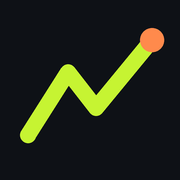
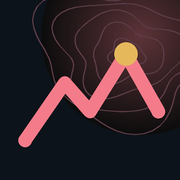
Foulée v5.2 : refonte visuelle « crépuscule alpin » (palette par module, Barlow, en-tête topographique, onglets flottants, nouvelle icône)
Claude-Session: https://claude.ai/code/session_01FcJh9x7dRj6SEJJ1oRs4bJ

diff --git a/foulee/index.html b/foulee/index.html
@@ -7,17 +7,19 @@
 <meta name="mobile-web-app-capable" content="yes">
 <meta name="apple-mobile-web-app-status-bar-style" content="black-translucent">
 <meta name="apple-mobile-web-app-title" content="Foulée">
-<meta name="theme-color" content="#0e1116">
+<meta name="theme-color" content="#0D131A">
 <title>Foulée</title>
 <link rel="apple-touch-icon" href="icon-180.png">
 <link rel="icon" type="image/png" href="icon-192.png">
 <link rel="manifest" href="manifest.webmanifest">
+<link rel="preconnect" href="https://fonts.googleapis.com"><link rel="preconnect" href="https://fonts.gstatic.com" crossorigin>
+<link href="https://fonts.googleapis.com/css2?family=Barlow+Condensed:wght@500;600;700;800&family=Barlow:wght@400;500;600;700&display=swap" rel="stylesheet">
 <style>
-:root{--bg:#0e1116;--card:#171b22;--card2:#1f252e;--line:#2a313c;--tx:#e9edf2;--mut:#8b95a3;--acc:#c6f432;--acc2:#ff8a4c;--blue:#4fb3ff;--red:#ff5d6c;--ok:#4ade80;--r:16px}
+:root{--bg:#0D131A;--card:#151D27;--card2:#1C2633;--line:#263243;--tx:#EDF2F6;--mut:#8C99A9;--acc:#F47C8A;--acc2:#E5B85C;--blue:#7CCBEA;--red:#ff5d6c;--ok:#6FD3A5;--r:16px}
 *{box-sizing:border-box;-webkit-tap-highlight-color:transparent}
 html,body{margin:0;background:var(--bg);color:var(--tx);font:15px/1.45 -apple-system,BlinkMacSystemFont,"SF Pro Text",Segoe UI,Roboto,sans-serif}
 body{padding-bottom:calc(76px + env(safe-area-inset-bottom))}
-header{flex-wrap:wrap;position:sticky;top:0;z-index:10;background:rgba(14,17,22,.92);backdrop-filter:blur(12px);-webkit-backdrop-filter:blur(12px);padding:calc(10px + env(safe-area-inset-top)) 16px 10px;display:flex;align-items:center;gap:10px;border-bottom:1px solid var(--line)}
+header{flex-wrap:wrap;position:sticky;top:0;z-index:10;background:rgba(13,19,26,.78);backdrop-filter:blur(12px);-webkit-backdrop-filter:blur(12px);padding:calc(10px + env(safe-area-inset-top)) 16px 10px;display:flex;align-items:center;gap:10px;border-bottom:1px solid var(--line)}
 header h1{margin:0;font-size:20px;letter-spacing:.06em;font-weight:800}
 header h1 span{color:var(--acc)}
 header .sub{color:var(--mut);font-size:12px;margin-left:2px}
@@ -71,12 +73,12 @@ ol.ex{padding-left:20px;margin:8px 0}ol.ex li{margin-bottom:8px}ol.ex small{colo
 .run .rm{flex:1;min-width:0}.run .rm b{display:block;white-space:nowrap;overflow:hidden;text-overflow:ellipsis}
 .run .rm small{color:var(--mut)}
 .tag{font-size:11px;padding:3px 8px;border-radius:20px;background:var(--line);white-space:nowrap}
-.tag.ef{background:#1d3a2a;color:var(--ok)}.tag.qual{background:#3a2a1d;color:var(--acc2)}.tag.long{background:#1d2c3a;color:var(--blue)}.tag.gris{background:#33363b;color:#c9ced6}
+.tag.ef{background:#16322A;color:var(--ok)}.tag.qual{background:#3A3020;color:var(--acc2)}.tag.long{background:#172A38;color:var(--blue)}.tag.gris{background:#33363b;color:#c9ced6}
 .wsel{display:flex;align-items:center;justify-content:space-between;margin-bottom:14px}
 .wsel b{font-size:17px}
 .pace{display:grid;grid-template-columns:1fr auto;gap:6px 12px;font-size:14px}
 .pace span:nth-child(even){font-weight:700;font-variant-numeric:tabular-nums;text-align:right}
-nav.tabs{position:fixed;bottom:0;left:0;right:0;z-index:20;background:rgba(23,27,34,.96);backdrop-filter:blur(12px);-webkit-backdrop-filter:blur(12px);border-top:1px solid var(--line);display:flex;padding:6px 4px calc(6px + env(safe-area-inset-bottom))}
+nav.tabs{position:fixed;bottom:0;left:0;right:0;z-index:20;background:rgba(21,29,39,.82);backdrop-filter:blur(12px);-webkit-backdrop-filter:blur(12px);border-top:1px solid var(--line);display:flex;padding:6px 4px calc(6px + env(safe-area-inset-bottom))}
 nav.tabs button{flex:1;background:none;border:0;color:var(--mut);font-size:11px;display:flex;flex-direction:column;align-items:center;gap:2px;padding:4px 0}
 nav.tabs button svg{width:24px;height:24px;stroke:currentColor;fill:none;stroke-width:2;stroke-linecap:round;stroke-linejoin:round}
 nav.tabs button.on{color:var(--acc)}
@@ -132,9 +134,9 @@ code{background:var(--card2);padding:2px 6px;border-radius:6px;font-size:13px;wo
 .qlab{font-size:13px;color:var(--mut);margin:14px 0 4px;font-weight:600}
 .d5{display:grid;grid-template-columns:repeat(5,1fr);gap:6px}
 .d5 button{background:var(--card2);border:1px solid var(--line);color:var(--tx);border-radius:12px;padding:10px 2px;font-size:11px;display:flex;flex-direction:column;align-items:center;gap:2px}
-.d5 button span{font-size:22px}.d5 button.on{border-color:var(--acc);background:#2a2216}
+.d5 button span{font-size:22px}.d5 button.on{border-color:var(--acc);background:#2B2418}
 .xpbar{height:10px;background:var(--card2);border-radius:6px;overflow:hidden;margin:8px 0 4px}
-.xpbar i{display:block;height:100%;background:linear-gradient(90deg,var(--acc),#ffd36b);border-radius:6px}
+.xpbar i{display:block;height:100%;background:linear-gradient(90deg,var(--acc),#F2D48A);border-radius:6px}
 .lvl-t{display:flex;align-items:baseline;gap:10px}.lvl-t b{font-size:28px}
 .badges{display:grid;grid-template-columns:repeat(3,1fr);gap:8px}
 @media(min-width:760px){.badges{grid-template-columns:repeat(6,1fr)}}
@@ -144,9 +146,9 @@ code{background:var(--card2);padding:2px 6px;border-radius:6px;font-size:13px;wo
 .tbl{width:100%;border-collapse:collapse;font-size:13px}.tbl td,.tbl th{padding:6px 4px;border-bottom:1px solid var(--line);text-align:right}.tbl th{color:var(--mut);font-weight:600}.tbl td:first-child,.tbl th:first-child{text-align:left}
 .up{color:var(--ok)}.dn{color:var(--acc2)}
 #inst{max-width:920px;margin:12px auto 0;padding:0 16px;display:none}#inst.on{display:block}
-#inst .card{border:1px solid #c6f432;background:linear-gradient(135deg,rgba(198,244,50,.12),rgba(255,138,76,.06));margin:0}
+#inst .card{border:1px solid #F47C8A;background:linear-gradient(135deg,rgba(198,244,50,.12),rgba(255,138,76,.06));margin:0}
 .istep{display:flex;gap:12px;align-items:center;margin-top:10px;font-size:15px}
-.istep b.n{flex:0 0 28px;height:28px;border-radius:50%;background:#c6f432;color:#111;display:flex;align-items:center;justify-content:center}
+.istep b.n{flex:0 0 28px;height:28px;border-radius:50%;background:#F47C8A;color:#111;display:flex;align-items:center;justify-content:center}
 .ishare{display:inline-flex;vertical-align:-4px}
 .ver{color:var(--mut);font-size:11px;text-align:center;margin-top:8px}
 #coach{position:fixed;inset:0;z-index:55;background:var(--bg);display:none;flex-direction:column}
@@ -155,7 +157,7 @@ code{background:var(--card2);padding:2px 6px;border-radius:6px;font-size:13px;wo
 .ch-h h2{margin:0;font-size:18px;flex:1}
 .ch-m{flex:1;overflow-y:auto;padding:16px;max-width:760px;width:100%;margin:0 auto;-webkit-overflow-scrolling:touch}
 .msg{max-width:88%;padding:10px 14px;border-radius:16px;margin-bottom:10px;font-size:15px;line-height:1.45;word-wrap:break-word}
-.msg.u{background:#2b3a14;margin-left:auto;border-bottom-right-radius:4px}
+.msg.u{background:#3A2129;margin-left:auto;border-bottom-right-radius:4px}
 .msg.a{background:var(--card);border:1px solid var(--line);border-bottom-left-radius:4px}
 .msg.a ul{margin:6px 0;padding-left:18px}.msg.a p{margin:0 0 6px}
 .msg.e{background:#3a1d1d;color:#ffb4b4}
@@ -165,30 +167,125 @@ code{background:var(--card2);padding:2px 6px;border-radius:6px;font-size:13px;wo
 .ch-q .chip{white-space:nowrap}
 .ch-in2{display:flex;gap:8px;padding:8px 16px calc(10px + env(safe-area-inset-bottom));border-top:1px solid var(--line);max-width:760px;width:100%;margin:0 auto}
 .ch-in2 textarea{flex:1;background:var(--card2);border:1px solid var(--line);color:var(--tx);border-radius:14px;padding:10px 12px;font:inherit;font-size:16px;resize:none;max-height:120px}
-.ch-in2 button{width:48px;border-radius:14px;border:0;background:#c6f432;color:#111;font-size:20px;font-weight:800}
+.ch-in2 button{width:48px;border-radius:14px;border:0;background:#F47C8A;color:#111;font-size:20px;font-weight:800}
 .ai{border:1px solid #6b5bd6;background:linear-gradient(135deg,rgba(107,91,214,.18),rgba(79,179,255,.08))}
 .ai h2{display:flex;align-items:center;gap:8px}
 .btn.ai-b{background:#8b7bff;color:#fff}
 .rv li{margin-bottom:4px}
 .tagm{font-size:11px;padding:2px 7px;border-radius:10px;background:var(--line);margin-right:6px;text-transform:uppercase;letter-spacing:.04em}
-body[data-mod=muscu]{--acc:#ff8a4c;--acc2:#c6f432}
-body[data-mod=cross]{--acc:#4fb3ff;--acc2:#c6f432}
+body[data-mod=muscu]{--acc:#E5B85C;--acc2:#F47C8A}
+body[data-mod=cross]{--acc:#7CCBEA;--acc2:#F47C8A}
 .modseg{flex-basis:100%;margin:10px 0 0}
 .modseg button{font-size:14px}
-body[data-mod=trail] .modseg button.on{color:#c6f432}
-body[data-mod=muscu] .modseg button.on{color:#ff8a4c}
-body[data-mod=cross] .modseg button.on{color:#4fb3ff}
+body[data-mod=trail] .modseg button.on{color:#F47C8A}
+body[data-mod=muscu] .modseg button.on{color:#E5B85C}
+body[data-mod=cross] .modseg button.on{color:#7CCBEA}
 .pill{cursor:pointer;padding:12px 16px}
 .xg{display:grid;grid-template-columns:40px 1fr 1fr;gap:6px;font-size:13px}
 .xg .hd{color:var(--mut);font-size:12px;font-weight:600}
 .xc{background:var(--card2);border-radius:10px;padding:7px 8px;min-height:36px;line-height:1.25}
-.xc.t{border-left:3px solid #c6f432}.xc.m{border-left:3px solid #ff8a4c}.xc.o{opacity:.35}
+.xc.t{border-left:3px solid #F47C8A}.xc.m{border-left:3px solid #E5B85C}.xc.o{opacity:.35}
 .xc.done{opacity:.55}
 .xd{display:flex;align-items:center;font-weight:700;color:var(--mut)}.xd.today{color:var(--tx)}
 .sched{display:grid;grid-template-columns:1fr 120px;gap:8px;align-items:center;font-size:14px}
 .sched select{padding:8px}
-.sched .t{border-left:3px solid #c6f432;padding-left:8px}.sched .m{border-left:3px solid #ff8a4c;padding-left:8px}
-.sess.str{border-left-color:#ff8a4c}.sess:not(.str){border-left-color:#c6f432}
+.sched .t{border-left:3px solid #F47C8A;padding-left:8px}.sched .m{border-left:3px solid #E5B85C;padding-left:8px}
+.sess.str{border-left-color:#E5B85C}.sess:not(.str){border-left-color:#F47C8A}
+
+/* ===== Direction « crépuscule alpin » ===== */
+:root{--trail:#F47C8A;--muscu:#E5B85C;--glacier:#7CCBEA;--line:rgba(196,214,232,.10);--r:20px;--disp:'Barlow Condensed','Barlow',-apple-system,sans-serif}
+body[data-mod=trail]{--acc:var(--trail)}body[data-mod=muscu]{--acc:var(--muscu);--acc2:var(--trail)}body[data-mod=cross]{--acc:var(--glacier);--acc2:var(--trail)}
+html,body{font-family:'Barlow',-apple-system,BlinkMacSystemFont,sans-serif;font-size:16px;letter-spacing:.005em;-webkit-font-smoothing:antialiased}
+body{background:radial-gradient(140% 60% at 50% -10%,#18222E 0%,var(--bg) 55%) fixed,var(--bg);padding-bottom:calc(104px + env(safe-area-inset-bottom))}
+::selection{background:var(--acc);color:#14100F}
+/* en-tête */
+header{background:rgba(13,19,26,.72);border-bottom:1px solid var(--line);padding-bottom:0}
+header h1{font-family:var(--disp);font-weight:800;font-size:27px;letter-spacing:.06em;line-height:1}
+header h1 span{color:var(--acc);transition:color .3s}
+header .sub{font-size:13px;letter-spacing:.01em;margin-top:2px}
+.icbtn{border-radius:14px;background:rgba(255,255,255,.04);border-color:var(--line)}
+.modseg{background:none;border:0;border-radius:0;padding:0;margin:12px -4px 0;gap:4px}
+.modseg button{border-radius:0;padding:10px 6px 11px;font-family:var(--disp);font-size:17px;font-weight:600;letter-spacing:.03em;color:var(--mut);border-bottom:2px solid transparent}
+.modseg button.on{background:none;border-bottom-color:currentColor}
+body[data-mod=trail] .modseg button.on{color:var(--trail)}body[data-mod=muscu] .modseg button.on{color:var(--muscu)}body[data-mod=cross] .modseg button.on{color:var(--glacier)}
+/* titres & chiffres */
+.card h2,.wsel b,.lvl-t b,.ch-h h2,#inst h2{font-family:var(--disp);font-weight:700;letter-spacing:.015em}
+.card h2{font-size:21px;line-height:1.15;margin-bottom:12px}
+.card h3{text-transform:none;letter-spacing:0;font-size:14px;font-weight:600}
+.stat b,.score,#chTime,.lvl-t b,.g-t,.tbl td b{font-family:var(--disp);font-variant-numeric:tabular-nums;letter-spacing:.01em}
+.stat b{font-size:30px;font-weight:700;line-height:1.05}
+.stat{background:rgba(255,255,255,.035);border-radius:14px;padding:14px}
+.stat small{font-size:13px}
+/* surfaces : hiérarchie de rayons */
+.card{background:linear-gradient(180deg,rgba(255,255,255,.03),rgba(255,255,255,0) 40%),var(--card);border:1px solid var(--line);border-radius:20px;padding:18px;box-shadow:0 1px 0 rgba(255,255,255,.03) inset}
+.sess{background:rgba(255,255,255,.035);border:1px solid var(--line);border-left:1px solid var(--line);border-radius:16px;padding:14px}
+.sess.str,.sess:not(.str){border-left-color:var(--line)}
+.si{width:44px;height:44px;flex:0 0 44px;border-radius:13px;display:flex;align-items:center;justify-content:center;font-size:21px;background:color-mix(in srgb,var(--trail) 16%,transparent)}
+.sess.str .si{background:color-mix(in srgb,var(--muscu) 16%,transparent)}
+.st b{font-size:16px;font-weight:600;line-height:1.25}.st small{font-size:13.5px;line-height:1.35;display:block;margin-top:2px}
+.chk{width:36px;height:36px;border:1.5px solid rgba(255,255,255,.22)}
+.done .chk{background:var(--ok);border-color:var(--ok)}
+summary{color:var(--acc);font-weight:600;list-style:none}summary::-webkit-details-marker{display:none}summary::before{content:'＋ ';opacity:.7}details[open] summary::before{content:'－ '}
+/* boutons & puces */
+.btn{border-radius:14px;font-weight:700;letter-spacing:.01em;background:var(--acc);color:#1A1214;transition:transform .12s,filter .2s}
+.btn:active{transform:scale(.97)}
+.btn.ghost{background:rgba(255,255,255,.05);border:1px solid var(--line);color:var(--tx)}
+.chip{background:rgba(255,255,255,.04);border-color:var(--line);font-weight:500}
+.chip.on{background:var(--acc);border-color:var(--acc);color:#1A1214;font-weight:600}
+.seg{background:rgba(255,255,255,.035);border-color:var(--line);border-radius:14px}
+.seg button.on{background:rgba(255,255,255,.09)}
+input,select,textarea{border-radius:12px!important;border-color:var(--line)!important;background:rgba(255,255,255,.04)!important}
+input:focus,select:focus,textarea:focus{outline:2px solid color-mix(in srgb,var(--acc) 60%,transparent);outline-offset:1px}
+:focus-visible{outline:2px solid var(--acc);outline-offset:2px}
+/* semaine */
+.wk{gap:5px;margin-top:14px}
+.wd{background:rgba(255,255,255,.03);border-radius:12px;padding:9px 2px;border:1px solid transparent}
+.wd.today{border-color:var(--acc);background:color-mix(in srgb,var(--acc) 10%,transparent)}
+.wd b{font-family:var(--disp);font-size:14px;letter-spacing:.04em}
+.ins{border-radius:14px;border-left-width:3px;background:rgba(255,255,255,.035)}
+/* barre d'onglets flottante */
+nav.tabs{left:12px;right:12px;bottom:calc(10px + env(safe-area-inset-bottom));padding:6px;border-radius:24px;border:1px solid var(--line);background:rgba(21,29,39,.78);box-shadow:0 12px 36px rgba(0,0,0,.5);max-width:620px;margin:0 auto}
+nav.tabs button{border-radius:18px;padding:7px 0;font-size:11.5px;font-weight:600;letter-spacing:.01em}
+nav.tabs button svg{width:23px;height:23px;stroke-width:1.8}
+nav.tabs button.on{color:var(--acc);background:color-mix(in srgb,var(--acc) 13%,transparent)}
+#toast{bottom:calc(100px + env(safe-area-inset-bottom));border-radius:14px;background:#EDF2F6;color:#121820}
+/* en-tête du jour : topographie + jauge */
+.hero{position:relative;overflow:hidden;border-radius:26px;padding:22px 20px 20px;margin-bottom:16px;cursor:pointer;border:1px solid color-mix(in srgb,var(--acc) 30%,transparent);
+  background:radial-gradient(120% 110% at 100% 0%,color-mix(in srgb,var(--acc) 26%,transparent) 0%,transparent 58%),linear-gradient(160deg,#18222F,#111922)}
+.topo{position:absolute;inset:0;width:100%;height:100%;fill:none;stroke:var(--acc);stroke-width:.9;opacity:.28;pointer-events:none}
+.hero-in{position:relative}
+.hero-d{color:var(--mut);font-size:14px;font-weight:500}.hero-d::first-letter{text-transform:uppercase}
+.hero-t{font-family:var(--disp);font-weight:800;font-size:40px;line-height:1;letter-spacing:.01em;margin:4px 0 16px}
+.hero-r{display:flex;align-items:center;gap:14px}
+.hero-r b{font-family:var(--disp);font-size:21px;font-weight:700;letter-spacing:.02em}
+.hero-r .small{color:#C9D3DE;line-height:1.4;margin-top:2px}
+.hero-k{color:var(--mut);font-size:12.5px;margin-top:12px}
+.gauge{flex:0 0 auto}.g-bg{fill:none;stroke:rgba(255,255,255,.1);stroke-width:7}
+.g-fg{fill:none;stroke-width:7;stroke-linecap:round;transform:rotate(-90deg);transform-origin:40px 40px;transition:stroke-dashoffset 1.2s cubic-bezier(.2,.8,.2,1)}
+.ok-s{stroke:var(--ok)}.tip-s{stroke:var(--glacier)}.warn-s{stroke:#F5A65B}
+.g-t{fill:var(--tx);font-size:27px;font-weight:700}
+.ok-c{color:var(--ok)}.tip-c{color:var(--glacier)}.warn-c{color:#F5A65B}
+/* chrono */
+.ch-disp{background:radial-gradient(70% 70% at 50% 45%,color-mix(in srgb,var(--acc) 10%,transparent),transparent 70%),var(--card)}
+.rbg,.rfg{stroke-width:9}.rbg{stroke:rgba(255,255,255,.07)}.rfg{stroke:var(--acc)}
+#chTime{font-weight:700;font-size:clamp(64px,20vw,104px);letter-spacing:0}
+#chLabel{font-family:var(--disp);font-size:22px;letter-spacing:.03em;color:var(--acc)}
+.ph-rest .rfg{stroke:var(--glacier)}.ph-rest #chLabel{color:var(--glacier)}
+.ph-prep .rfg{stroke:var(--muscu)}.ph-prep #chLabel{color:var(--muscu)}
+.stp button{border-radius:12px;background:rgba(255,255,255,.05);border-color:var(--line)}
+/* divers */
+.tag{border-radius:8px;font-weight:600}
+.xpbar{height:8px;background:rgba(255,255,255,.07)}.xpbar i{background:linear-gradient(90deg,var(--muscu),#F2D48A)}
+.lvl-t b{font-size:32px}
+.bdg{background:rgba(255,255,255,.035);border-color:var(--line);border-radius:14px}
+.sheet>div{border-radius:26px 26px 0 0;background:#111922;border-color:var(--line)}
+.ai{border-color:rgba(164,139,255,.35);background:radial-gradient(120% 120% at 100% 0%,rgba(164,139,255,.18),transparent 60%),var(--card)}
+.btn.ai-b{background:#A48BFF;color:#130F22}
+.msg.u{background:color-mix(in srgb,var(--trail) 22%,#151D27)}
+.ch-in2 button{background:var(--acc);color:#1A1214}
+#coach{background:radial-gradient(140% 60% at 50% -10%,#18222E,#0D131A 55%)}
+.seg.modseg{background:none;border:0;border-radius:0;padding:0;overflow:visible}.seg.modseg button.on{background:none}.seg.modseg button{flex:0 0 auto;padding-left:2px;padding-right:2px;margin-right:18px}
+@media (prefers-reduced-motion:reduce){*{transition:none!important;animation:none!important}}
 </style>
 </head>
 <body>
@@ -196,7 +293,7 @@ body[data-mod=cross] .modseg button.on{color:#4fb3ff}
   <div><h1>FOUL<span>É</span>E</h1><div class="sub" id="modSub">Trail</div></div>
   <div class="sp"></div>
   <button class="icbtn" onclick="openCoach()" aria-label="Coach" style="margin-right:6px">💬</button><button class="icbtn" onclick="openSettings()" aria-label="Réglages">⚙</button>
-  <div class="seg modseg" id="modSeg"><button data-mod="trail">🏃 Trail</button><button data-mod="muscu">🏋 Muscu</button><button data-mod="cross">🔀 Cross</button></div>
+  <div class="seg modseg" id="modSeg"><button data-mod="trail">Trail</button><button data-mod="muscu">Muscu</button><button data-mod="cross">Cross-training</button></div>
 </header>
 
 <div id="inst"><div class="card"><div class="row" style="justify-content:space-between;align-items:flex-start"><h2 style="margin:0">📲 Installe Foulée sur ton iPhone</h2><button class="icbtn" style="width:32px;height:32px;font-size:14px" onclick="hideInstall()">✕</button></div>
@@ -283,7 +380,7 @@ const pct=x=>Math.round(x*100)+' %';
 const localDate=s=>new Date(String(s).replace('Z',''));
 
 /* ============ INSTALLATION (PWA) ============ */
-const APP_VER='5.1';
+const APP_VER='5.2';
 const isStandalone=()=>navigator.standalone===true||(window.matchMedia&&matchMedia('(display-mode: standalone)').matches);
 const isIOS=()=>/iPhone|iPad|iPod/.test(navigator.userAgent)||(navigator.platform==='MacIntel'&&navigator.maxTouchPoints>1);
 function showInstall(force){if(isStandalone())return;let off=false;try{off=localStorage.getItem('foulee_inst_off')==='1';}catch(e){}if(force||(!off&&isIOS()))$('#inst').classList.add('on');if(force){closeSettings();window.scrollTo(0,0);}}
@@ -837,7 +934,12 @@ function lineChart(pts,color){if(pts.length<2)return '';const W=340,H=90,xs=pts.
   return `<svg viewBox="0 0 ${W} ${H}" class="chart"><polyline points="${pts.map(p=>sx(p[0])+','+sy(p[1])).join(' ')}" fill="none" stroke="${color}" stroke-width="2.5"/>${pts.map(p=>`<circle cx="${sx(p[0])}" cy="${sy(p[1])}" r="3" fill="${color}"/>`).join('')}</svg>`;}
 
 /* ============ PAGES ============ */
-function formePill(){const R=readiness();return `<div class="card pill" onclick="setMod('cross','forme')"><div class="ready"><div class="score ${R.c}-c" style="font-size:32px">${R.sc}</div><div class="rx"><b class="${R.c}-c">Forme du jour · ${R.t}</b><div class="note">Trail + muscu combinés · détails dans Cross ›</div></div></div></div>`;}
+function topo(){let s='<svg class="topo" viewBox="0 0 320 210" preserveAspectRatio="xMaxYMid slice" aria-hidden="true">';
+  for(let k=1;k<=11;k++){let d='';for(let i=0;i<=72;i++){const t=i/72*Math.PI*2,r=k*13*(1+.16*Math.sin(3*t+k*.6)+.08*Math.sin(5*t-k*.9)+.05*Math.cos(2*t+k));d+=(i?'L':'M')+(250+r*Math.cos(t)*1.4).toFixed(1)+' '+(64+r*Math.sin(t)).toFixed(1);}s+=`<path d="${d}Z"/>`;}
+  return s+'</svg>';}
+function gauge(sc,c){const r=32,C=2*Math.PI*r;return `<svg class="gauge" viewBox="0 0 80 80" width="78" height="78" role="img" aria-label="Forme ${sc} sur 100"><circle cx="40" cy="40" r="${r}" class="g-bg"/><circle cx="40" cy="40" r="${r}" class="g-fg ${c}-s" stroke-dasharray="${C.toFixed(1)}" stroke-dashoffset="${(C*(1-sc/100)).toFixed(1)}"/><text x="40" y="49" text-anchor="middle" class="g-t">${sc}</text></svg>`;}
+function formePill(){const R=readiness(),hr=new Date().getHours(),g=hr<5?'Bonne nuit':hr<12?'Bonjour':hr<18?'Bon après-midi':'Bonsoir';
+  return `<div class="hero" onclick="setMod('cross','forme')">${topo()}<div class="hero-in"><div class="hero-d">${new Date().toLocaleDateString('fr-FR',{weekday:'long',day:'numeric',month:'long'})}</div><div class="hero-t">${g}</div><div class="hero-r">${gauge(R.sc,R.c)}<div><b class="${R.c}-c">${R.t}</b><div class="small">${R.x}</div></div></div><div class="hero-k">Forme calculée sur ta charge trail et muscu et tes ressentis</div></div></div>`;}
 function planStateCard(w){
   if(w<0)return `<div class="card"><h2>Le plan démarre le ${planStart().toLocaleDateString('fr-FR',{weekday:'long',day:'numeric',month:'long'})}</h2></div>`;
   if(w>11)return `<div class="card"><h2>Cycle de 12 semaines terminé 🎉</h2><p class="muted">Synchronise Strava puis lance un nouveau cycle : allures, volume et charges seront recalculés.</p><button class="btn" onclick="newCycle()">Nouveau cycle</button></div>`;
@@ -974,16 +1076,16 @@ function stackChart(weeks){
   const W=340,H=150,pl=6,bw=(W-pl*2)/weeks.length,max=Math.max(300,...weeks.map(w=>w.run+w.mus));
   let s=`<svg viewBox="0 0 ${W} ${H}" class="chart">`;
   weeks.forEach((w,i)=>{const x=pl+i*bw+3,hr=w.run/max*(H-40),hm=w.mus/max*(H-40),cur=i===weeks.length-1;
-    s+=`<rect x="${x}" y="${H-20-hr}" width="${bw-6}" height="${Math.max(hr,0)}" fill="#c6f432" opacity="${cur?.5:1}"/><rect x="${x}" y="${H-20-hr-hm}" width="${bw-6}" height="${Math.max(hm,0)}" fill="#ff8a4c" opacity="${cur?.5:1}"/>`;
+    s+=`<rect x="${x}" y="${H-20-hr}" width="${bw-6}" height="${Math.max(hr,0)}" fill="#F47C8A" opacity="${cur?.5:1}"/><rect x="${x}" y="${H-20-hr-hm}" width="${bw-6}" height="${Math.max(hm,0)}" fill="#E5B85C" opacity="${cur?.5:1}"/>`;
     if(w.run+w.mus>0)s+=`<text x="${x+(bw-6)/2}" y="${H-24-hr-hm}" class="cv">${Math.round(w.run+w.mus)}</text>`;
     s+=`<text x="${x+(bw-6)/2}" y="${H-6}" class="cl">${w.ws.getDate()}/${w.ws.getMonth()+1}</text>`;});
-  return s+`</svg><div class="legend"><span><i style="background:#c6f432"></i>Trail</span><span><i style="background:#ff8a4c"></i>Muscu</span></div>`;
+  return s+`</svg><div class="legend"><span><i style="background:#F47C8A"></i>Trail</span><span><i style="background:#E5B85C"></i>Muscu</span></div>`;
 }
 function renderForme(){
   const R=readiness(),m0=mondayOf(new Date()),weeks=[];
   for(let i=7;i>=0;i--){const ws=new Date(m0);ws.setDate(ws.getDate()-7*i);const we=new Date(ws);we.setDate(we.getDate()+7);weeks.push({ws,...loadsBetween(ws,we)});}
   const last4=weeks.slice(3,7),tr=last4.reduce((s,w)=>s+w.run,0),mu=last4.reduce((s,w)=>s+w.mus,0),tot=tr+mu;
-  let h=`<div class="card"><div class="ready"><div class="score ${R.c}-c">${R.sc}<small>/100</small></div><div class="rx"><b class="${R.c}-c">Forme du jour · ${R.t}</b><div class="small">${R.x}</div><div class="note">${R.why.join(' · ')}</div></div></div></div>`;
+  let h=`<div class="hero" style="cursor:default">${topo()}<div class="hero-in"><div class="hero-d">Forme du jour</div><div class="hero-t">${R.t}</div><div class="hero-r">${gauge(R.sc,R.c)}<div><div class="small">${R.x}</div><div class="note" style="margin-top:6px">${R.why.join(', ')}</div></div></div></div></div>`;
   h+=`<div class="card"><h2>Charge globale par semaine</h2>${stackChart(weeks)}<p class="note">Charge = durée × intensité. Trail : minutes × intensité estimée de la sortie (facile 3, longue 4, zone grise 5, qualité 7). Muscu : 40 min × ton ressenti (4 à 9).</p></div>`;
   h+=`<div class="card"><h2>Équilibre sur 4 semaines</h2><div class="grid"><div class="stat"><b>${tot?Math.round(tr/tot*100):0} %</b><small>trail</small></div><div class="stat"><b>${tot?Math.round(mu/tot*100):0} %</b><small>muscu</small></div><div class="stat"><b>${R.acwr!=null?R.acwr.toFixed(2):'–'}</b><small>ratio 7 j / 28 j</small></div><div class="stat"><b>${Math.round(R.chW)}</b><small>charge moy. / sem.</small></div></div>
    <p class="small">Ratio 7 j / 28 j : <b>0,8 à 1,3</b> = zone de progression. Au-dessus de 1,5, le risque de blessure grimpe : allège la muscu jambes en priorité, garde la sortie longue.</p></div>`;

diff --git a/foulee/sw.js b/foulee/sw.js
@@ -1,5 +1,5 @@
 // Foulée — service worker : appli disponible hors ligne, mises à jour récupérées en arrière-plan.
-const CACHE = 'foulee-v5.1';
+const CACHE = 'foulee-v5.2';
 const ASSETS = ['./', './index.html', './manifest.webmanifest', './icon-180.png', './icon-192.png', './icon-512.png'];
 
 self.addEventListener('install', e => {
